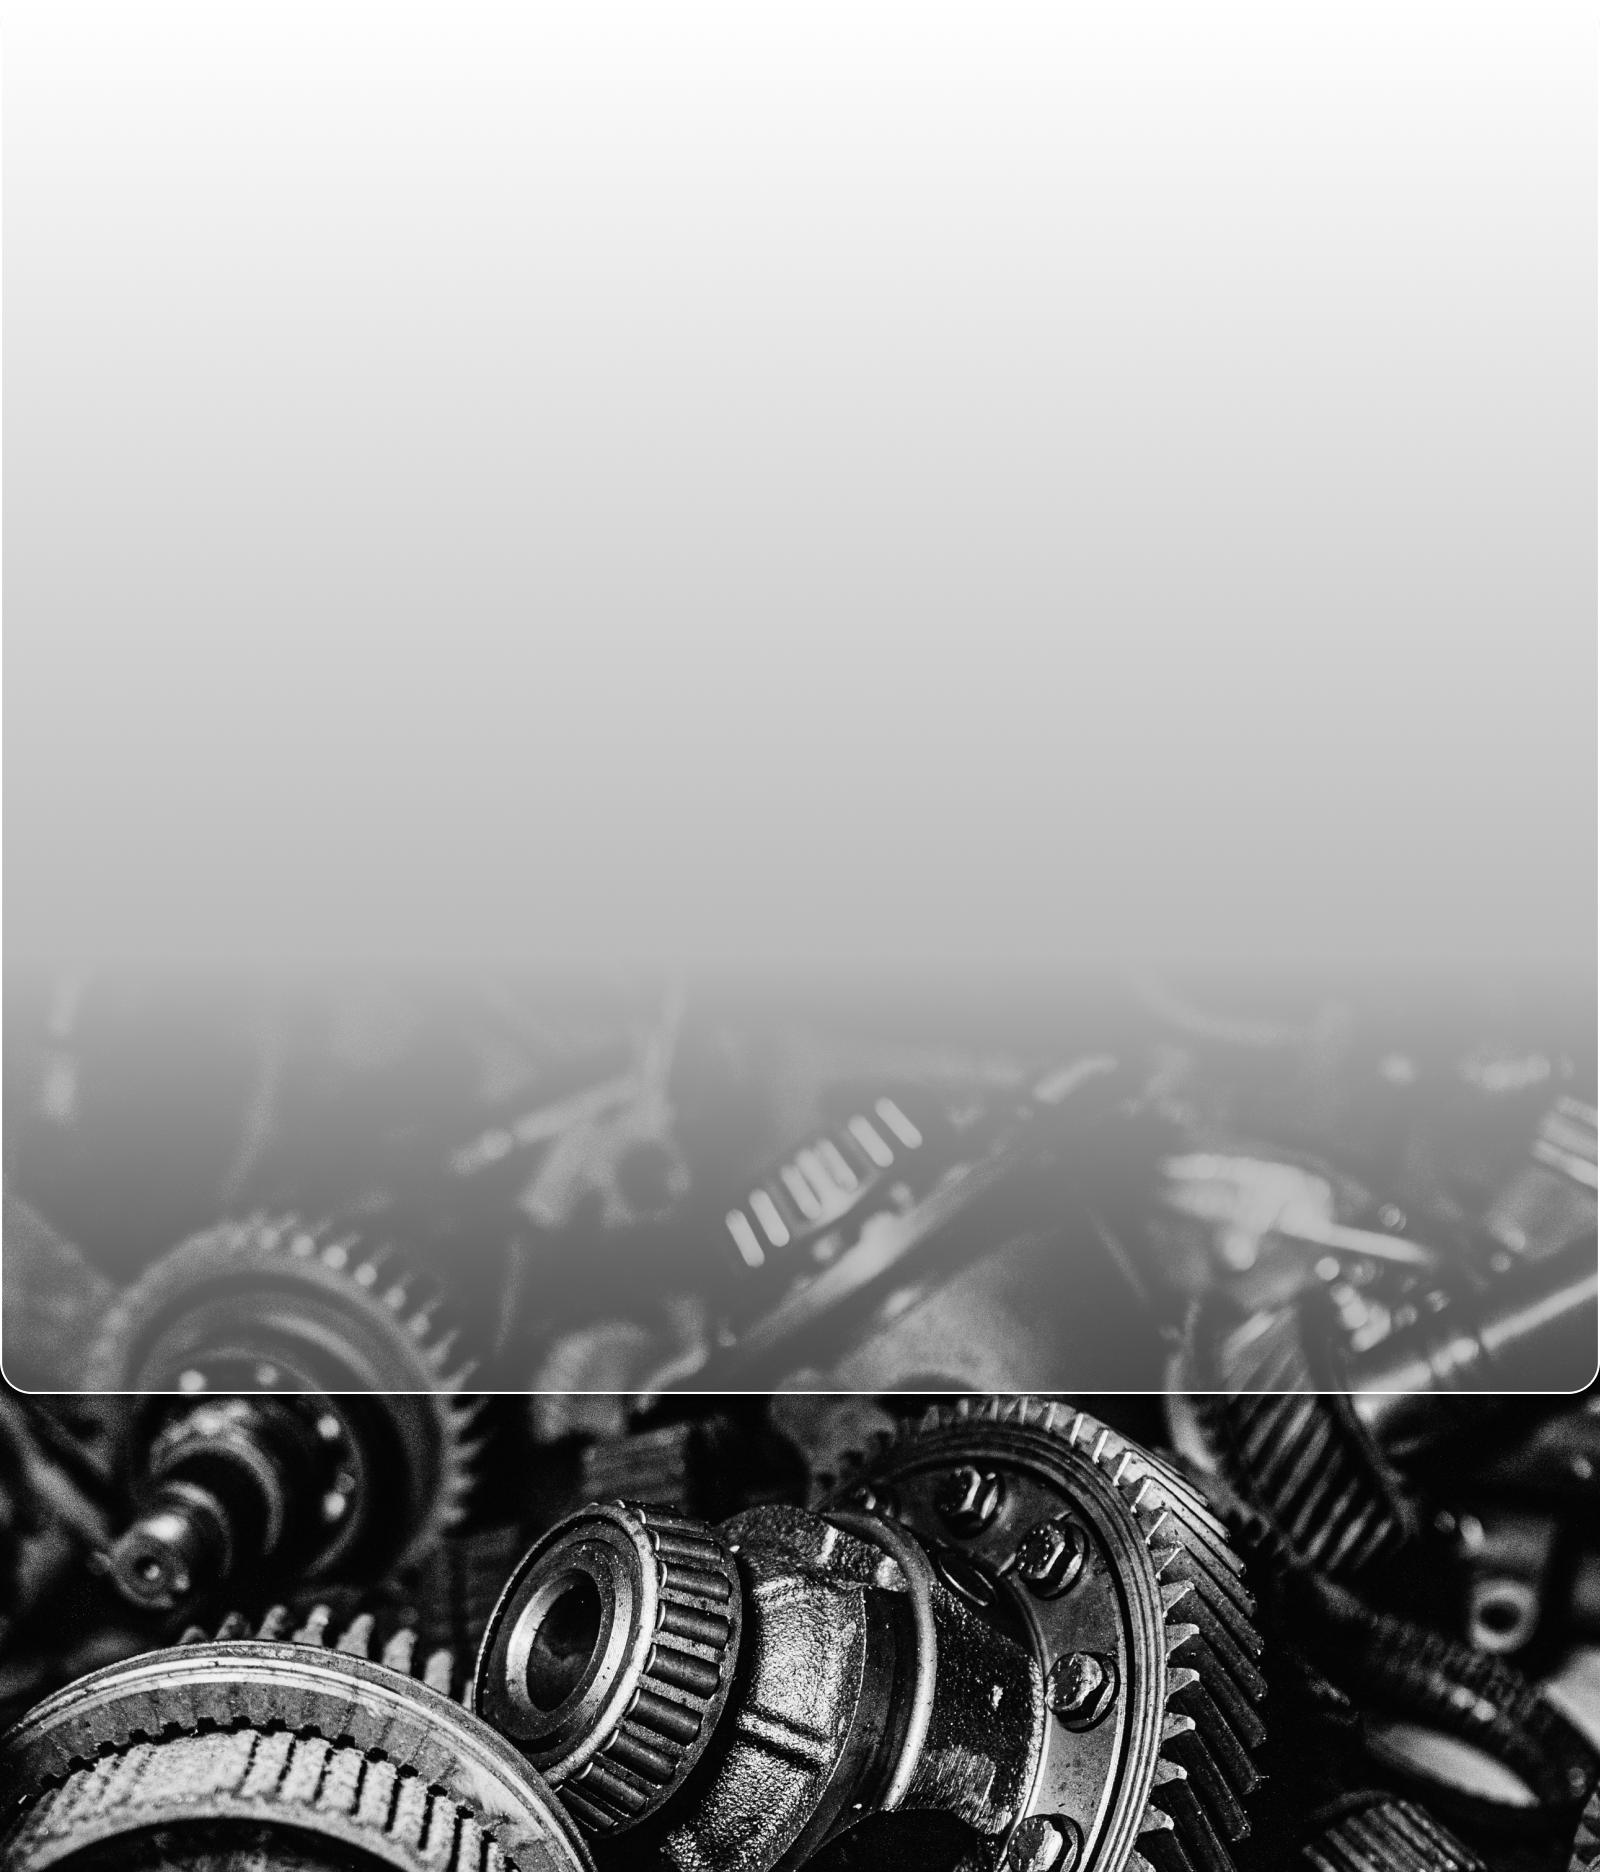
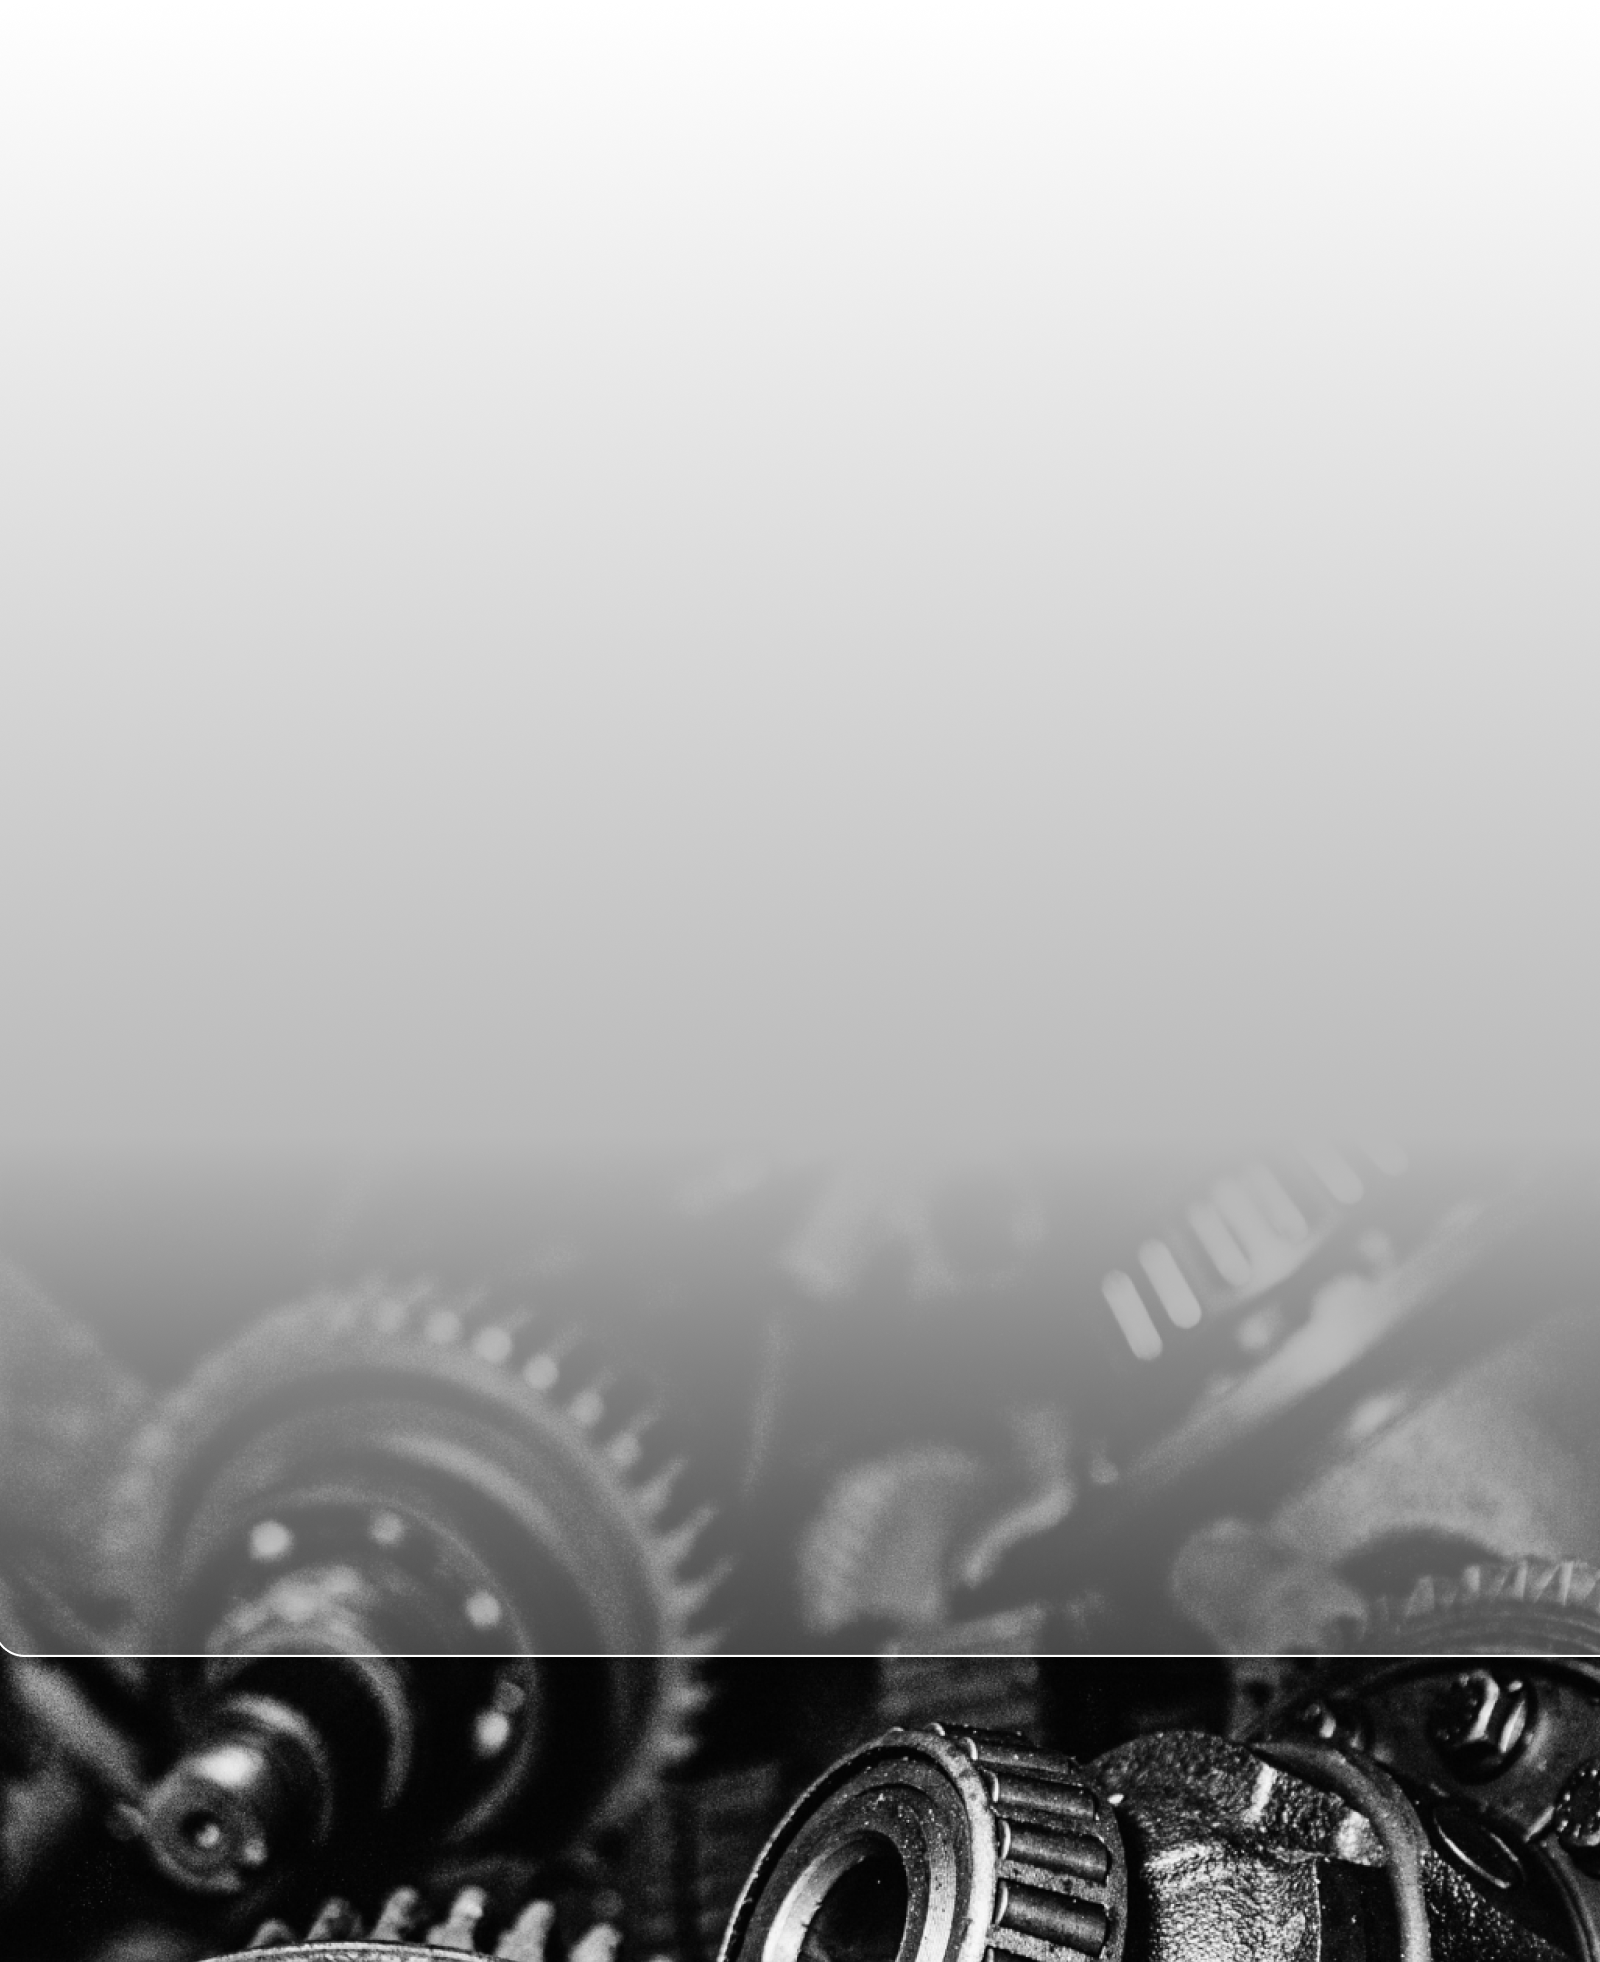
style: adjust component spacing style

diff --git a/src/components/Pages/Home/components/UtilityCards/index.jsx b/src/components/Pages/Home/components/UtilityCards/index.jsx
@@ -1,12 +1,16 @@
 import { SingleUtility } from './SingleUtility'
 import { OPTIONS, UNIQUE_UTILITIES_CARDS } from '@/utils/constants'
 import { CarouselLoop } from '@/components/Carousel/CarouselLoop'
+import { cn } from '@/lib/utils'
 
-const UtilityCards = () => {
+const UtilityCards = ({ className }) => {
   return (
     <section
       id="blog-carousel"
-      className="relative mx-auto mb-6 flex w-full max-w-[1540px] flex-col items-center px-6 pt-16 md:mb-0 md:px-14"
+      className={cn(
+        'relative mx-auto mb-6 flex w-full max-w-[1540px] flex-col items-center px-6 pt-16 md:mb-0 md:px-14',
+        className,
+      )}
     >
       <CarouselLoop options={OPTIONS} array={UNIQUE_UTILITIES_CARDS}>
         {UNIQUE_UTILITIES_CARDS.map((utility, index) => (

diff --git a/src/components/Pages/Categoria/index.jsx b/src/components/Pages/Categoria/index.jsx
@@ -79,9 +79,9 @@ export default function Categoria({ content }) {
           />
         </BackgroundImageFirst>
         <BackgroundImageLast backgrounds={content?.page?.backgroundImages}>
-          <UtilityCards />
+          <UtilityCards className="pb-20" />
           {content?.category?.info?.length > 0 && (
-            <Info info={content.category.info} />
+            <Info info={content.category.info} classNameContainer="pb-20" />
           )}
           {content?.category?.faq &&
             Object.entries(content.category.faq).length > 0 && (

diff --git a/src/components/Pages/Categoria/components/ContentProduct/index.jsx b/src/components/Pages/Categoria/components/ContentProduct/index.jsx
@@ -9,7 +9,7 @@ export const ContentProduct = ({ category, technicalSheet }) => {
       className="mx-auto flex w-full max-w-7xl flex-col gap-20 px-5 py-36 lg:flex-row"
     >
       <div className="mx-auto h-fit w-full max-w-[536.93px] space-y-7 rounded-[33.13px] border border-solid border-[#FFFFFF30] bg-[#D9D9D915] p-8 shadow-[0px_6.02px_6.02px_rgba(0,0,0,0.25)]">
-        <figure class="relative w-full">
+        <figure className="relative w-full">
           <Image
             src={thumbnail?.imageUrlPng}
             alt={thumbnail?.alt}
